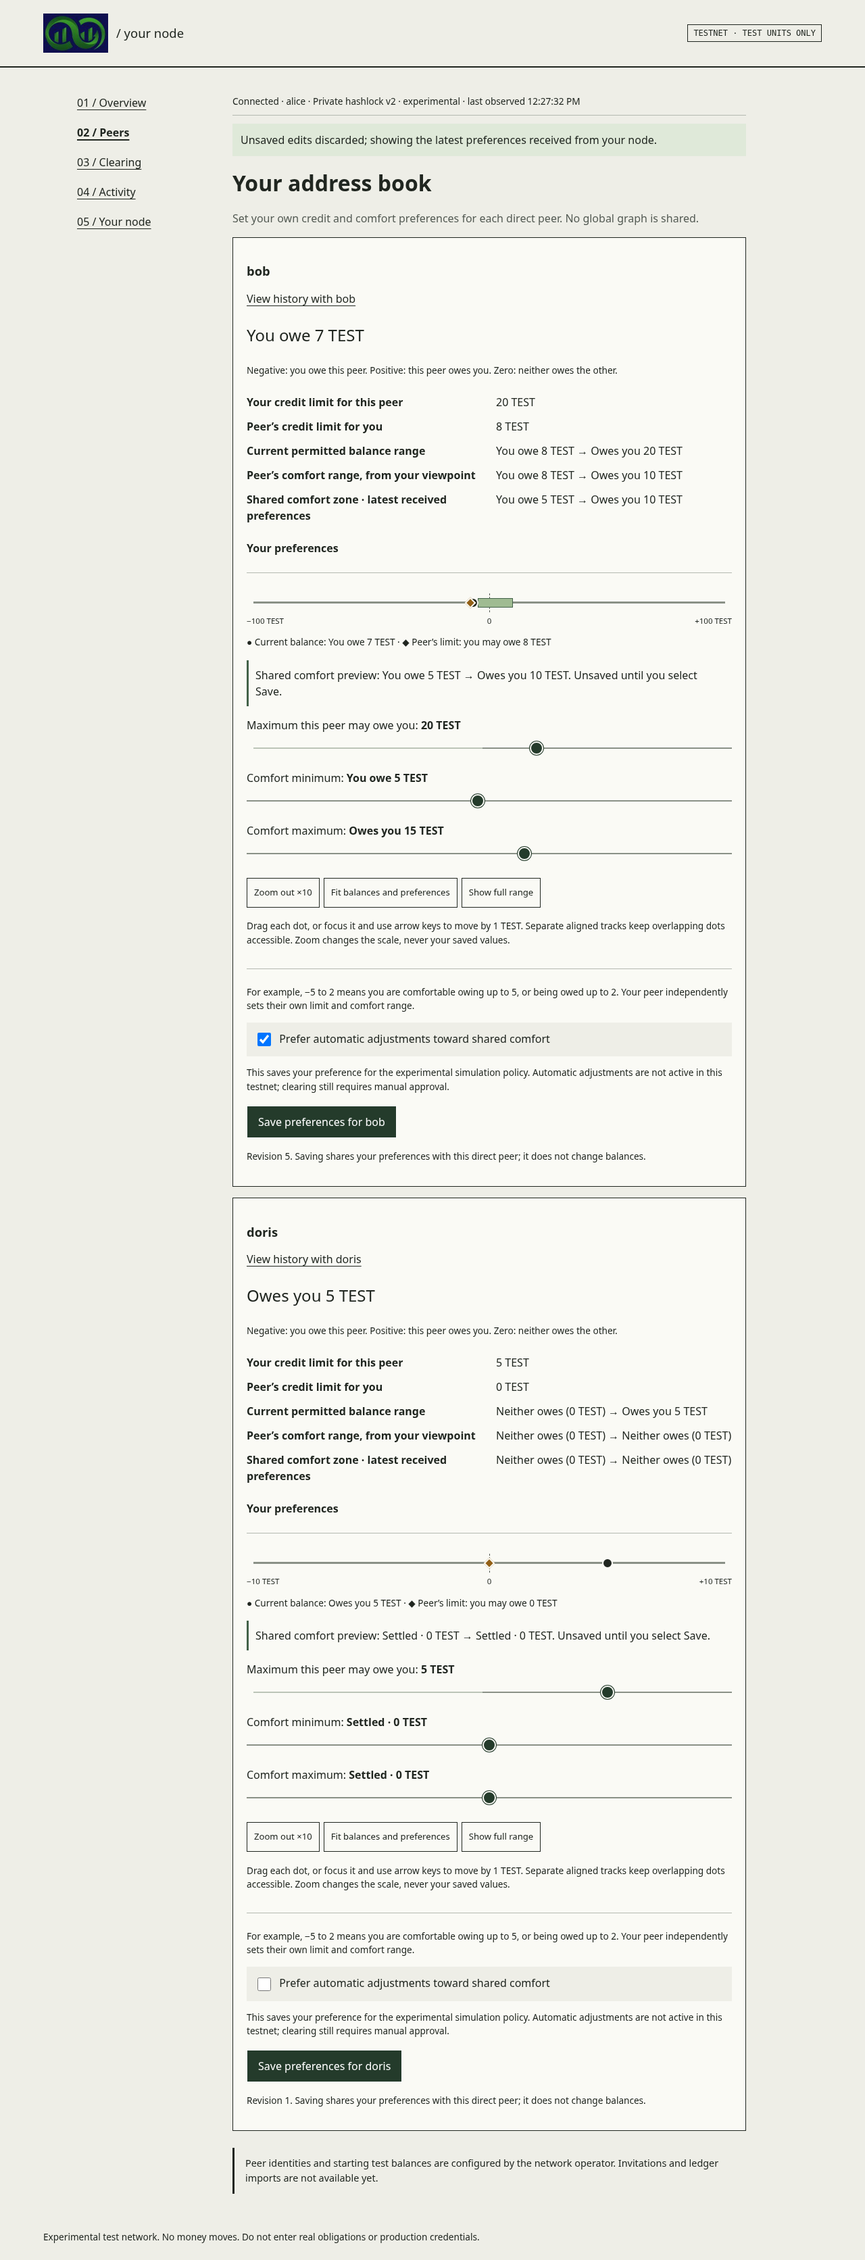
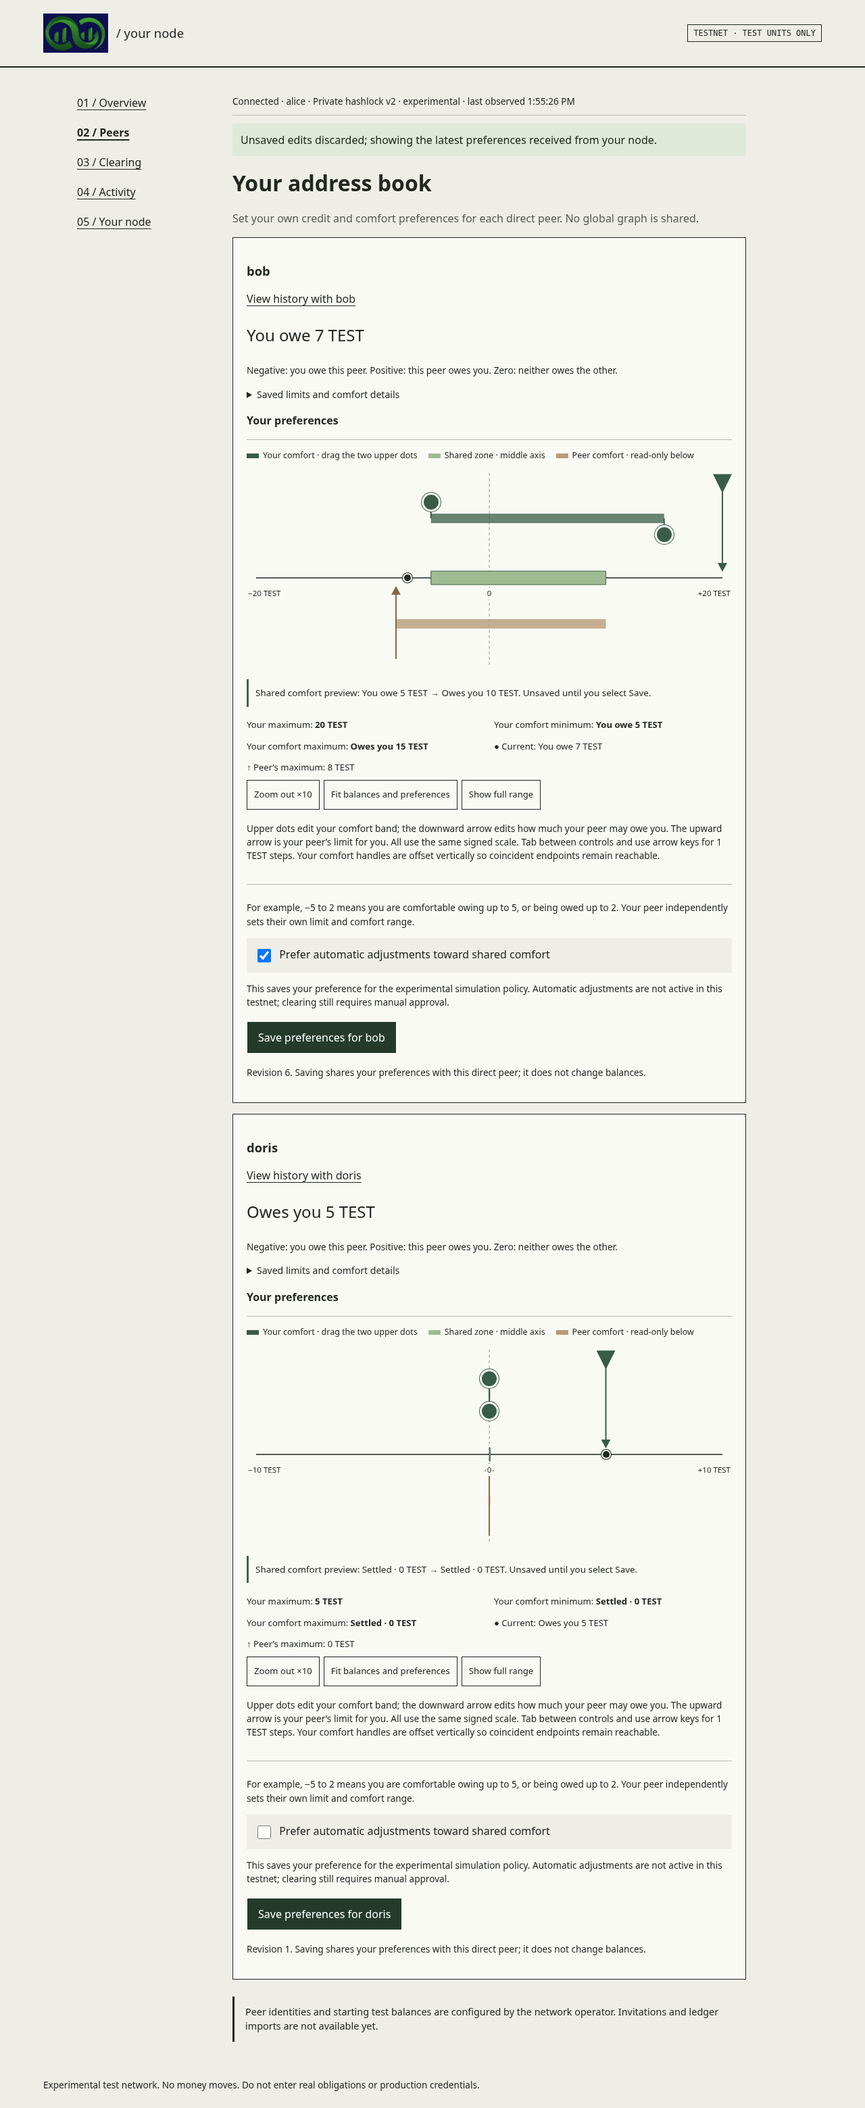
Combine trustline limits and comfort zones in one editable diagram

diff --git a/app/static/app.js b/app/static/app.js
@@ -127,22 +127,25 @@
   const contactScales = new Map();
   const preferenceBound = 1000000000000;
   function contactRadius(contact, values) {
-    const largest = Math.max(10, Math.abs(contact.balance), ...[values.credit_limit,values.comfort_min,values.comfort_max,contact.peer_preferences?.credit_limit || 0].map(Number).map(Math.abs));
-    return Math.min(preferenceBound, Math.max(largest, contactScales.get(contact.peer) || Math.pow(10,Math.ceil(Math.log10(largest)))));
+    const largest = Math.max(10, Math.abs(contact.balance), ...[values.credit_limit,values.comfort_min,values.comfort_max,contact.peer_preferences?.credit_limit || 0,contact.peer_preferences?.comfort_min || 0,contact.peer_preferences?.comfort_max || 0].map(Number).map(Math.abs));
+    const magnitude = Math.pow(10,Math.floor(Math.log10(largest)));
+    const fitted = [1,2,5,10].map(factor => factor*magnitude).find(value => value >= largest);
+    return Math.min(preferenceBound, Math.max(largest, contactScales.get(contact.peer) || fitted));
   }
   function comfortPreview(contact, values, radius) {
     const peer = contact.peer_preferences;
     const lower = peer ? Math.max(Number(values.comfort_min),-peer.comfort_max,-peer.credit_limit) : 0;
     const upper = peer ? Math.min(Number(values.comfort_max),-peer.comfort_min,Number(values.credit_limit)) : 0;
-    const point = value => 50 + Number(value) / radius * 50;
+    const x = value => 500 + Number(value) / radius * 500;
     const overlap = peer && lower <= upper;
-    return `<div class="balance-axis" aria-hidden="true"><span class="axis-zero"></span>${overlap ? `<span class="axis-band" style="left:${point(lower)}%;width:${Math.max(0,(upper-lower)/radius*50)}%"></span>` : ""}<span class="axis-marker current" style="left:${point(contact.balance)}%" title="Current balance"></span>${peer ? `<span class="axis-marker peer-limit" style="left:${point(-peer.credit_limit)}%" title="Peer’s credit limit"></span>` : ""}</div><div class="axis-labels"><span>−${esc(amount(radius))}</span><span>0</span><span>+${esc(amount(radius))}</span></div><p class="subtle">● Current balance: ${esc(balanceText(contact.balance))}${peer ? ` · ◆ Peer’s limit: you may owe ${esc(amount(peer.credit_limit))}` : " · Peer’s limit not received"}</p><p class="comfort-preview">Shared comfort preview: ${!peer ? "waiting for peer preferences" : !overlap ? "No shared comfort zone" : `${esc(balanceText(lower))} → ${esc(balanceText(upper))}`}. Unsaved until you select Save.</p>`;
+    const ownMin = x(values.comfort_min), ownMax = x(values.comfort_max), limit = x(values.credit_limit);
+    return `<div class="diagram-drawing" aria-hidden="true"><svg viewBox="0 0 1000 300" preserveAspectRatio="none"><line class="zero-guide" x1="500" y1="5" x2="500" y2="292"/><line class="balance-line" x1="0" y1="160" x2="1000" y2="160"/><rect class="own-comfort-band" x="${ownMin}" y="65" width="${Math.max(2,ownMax-ownMin)}" height="14"/><line class="own-connector" x1="${ownMin}" y1="48" x2="${ownMin}" y2="72"/><line class="own-connector" x1="${ownMax}" y1="72" x2="${ownMax}" y2="96"/><line class="own-limit-line" x1="${limit}" y1="20" x2="${limit}" y2="148"/><path class="own-limit-arrow" d="M ${limit-10} 138 L ${limit} 151 L ${limit+10} 138 Z"/>${overlap ? `<rect class="shared-comfort-band" x="${x(lower)}" y="150" width="${Math.max(2,x(upper)-x(lower))}" height="20"/>` : ""}${peer ? `<rect class="peer-comfort-band" x="${x(-peer.comfort_max)}" y="221" width="${Math.max(2,x(-peer.comfort_min)-x(-peer.comfort_max))}" height="14"/><line class="peer-limit-line" x1="${x(-peer.credit_limit)}" y1="280" x2="${x(-peer.credit_limit)}" y2="176"/><path class="peer-limit-arrow" d="M ${x(-peer.credit_limit)-10} 185 L ${x(-peer.credit_limit)} 172 L ${x(-peer.credit_limit)+10} 185 Z"/>` : ""}</svg><span class="diagram-current" style="left:${x(contact.balance)/10}%" title="Current balance"></span></div><div class="axis-labels"><span>−${esc(amount(radius))}</span><span>0</span><span>+${esc(amount(radius))}</span></div><p class="comfort-preview">Shared comfort preview: ${!peer ? "waiting for peer preferences" : !overlap ? "No shared comfort zone" : `${esc(balanceText(lower))} → ${esc(balanceText(upper))}`}. Unsaved until you select Save.</p>`;
   }
   function contactSliders(contact, values, index, locked) {
     const radius = contactRadius(contact,values);
     const control = locked ? "disabled" : "";
-    const labels = {credit_limit:"Maximum this peer may owe you",comfort_min:"Comfort minimum",comfort_max:"Comfort maximum"};
-    return `<div class="preference-axis" data-radius="${radius}"><div data-comfort-preview>${comfortPreview(contact,values,radius)}</div>${Object.entries(labels).map(([key,label]) => `<label for="contact-${index}-${key}">${label}: <output data-value="${key}">${esc(key === "credit_limit" ? amount(values[key]) : balanceText(values[key]))}</output></label><div class="slider-track ${key === "credit_limit" ? "credit-track" : ""}"><input id="contact-${index}-${key}" name="${key}" type="range" min="${key === "credit_limit" ? 0 : -radius}" max="${radius}" step="1" value="${esc(values[key])}" aria-valuetext="${esc(key === "credit_limit" ? amount(values[key]) : balanceText(values[key]))}" ${control}></div>`).join("")}<div class="axis-actions"><button type="button" class="secondary" data-scale="wider" ${radius >= preferenceBound ? "disabled" : ""}>Zoom out ×10</button><button type="button" class="secondary" data-scale="fit">Fit balances and preferences</button><button type="button" class="secondary" data-scale="full">Show full range</button></div><p class="subtle">Drag each dot, or focus it and use arrow keys to move by 1 TEST. Separate aligned tracks keep overlapping dots accessible. Zoom changes the scale, never your saved values.</p></div>`;
+    const labels = {credit_limit:"Your maximum",comfort_min:"Your comfort minimum",comfort_max:"Your comfort maximum"};
+    return `<div class="preference-axis integrated" data-radius="${radius}"><div class="diagram-key"><span class="own-key">Your comfort · drag the two upper dots</span><span class="shared-key">Shared zone · middle axis</span><span class="peer-key">Peer comfort · read-only below</span></div><div class="integrated-diagram"><div data-comfort-preview>${comfortPreview(contact,values,radius)}</div>${Object.entries(labels).map(([key,label]) => `<input class="diagram-control ${key}" id="contact-${index}-${key}" name="${key}" type="range" min="${key === "credit_limit" ? 0 : -radius}" max="${radius}" step="1" value="${esc(values[key])}" aria-label="${label}" aria-valuetext="${esc(key === "credit_limit" ? amount(values[key]) : balanceText(values[key]))}" ${control}>`).join("")}</div><div class="diagram-values">${Object.entries(labels).map(([key,label]) => `<label for="contact-${index}-${key}">${label}: <output data-value="${key}">${esc(key === "credit_limit" ? amount(values[key]) : balanceText(values[key]))}</output></label>`).join("")}<p>● Current: ${esc(balanceText(contact.balance))}</p><p>↑ Peer’s maximum: ${contact.peer_preferences ? esc(amount(contact.peer_preferences.credit_limit)) : "not received"}</p></div><div class="axis-actions"><button type="button" class="secondary" data-scale="wider" ${radius >= preferenceBound ? "disabled" : ""}>Zoom out ×10</button><button type="button" class="secondary" data-scale="fit">Fit balances and preferences</button><button type="button" class="secondary" data-scale="full">Show full range</button></div><p class="subtle">Upper dots edit your comfort band; the downward arrow edits how much your peer may owe you. The upward arrow is your peer’s limit for you. All use the same signed scale. Tab between controls and use arrow keys for 1 TEST steps. Your comfort handles are offset vertically so coincident endpoints remain reachable.</p></div>`;
   }
   function contactHistory(peer) {
     const contact = state.contacts?.find(c => c.peer === peer) || state.balances.find(c => c.peer === peer);
@@ -169,7 +172,7 @@
     const control = locked ? "disabled" : "";
     const endpoint = value => value === 0 ? "Neither owes (0 TEST)" : balanceText(value);
     const signedRange = (min, max) => `${endpoint(min)} → ${endpoint(max)}`;
-    return `<article class="card contact"><h2>${esc(contact.peer)}</h2><a href="#history/${encodeURIComponent(contact.peer)}">View history with ${esc(contact.peer)}</a><p class="big">${esc(balanceText(contact.balance))}</p>${contact.reserved_by ? "<p class=\"tag\">Pending clearing · preferences locked until outcome</p>" : ""}<p class="subtle">Negative: you owe this peer. Positive: this peer owes you. Zero: neither owes the other.</p><dl class="contact-summary"><dt>Your credit limit for this peer</dt><dd>${esc(amount(own.credit_limit))}</dd><dt>Peer’s credit limit for you</dt><dd>${peer ? esc(amount(peer.credit_limit)) : "Not received yet"}</dd><dt>Current permitted balance range</dt><dd>${contact.hard_min === null ? "Waiting for peer preferences" : esc(signedRange(contact.hard_min, contact.hard_max))}</dd><dt>Peer’s comfort range, from your viewpoint</dt><dd>${peer ? esc(signedRange(-peer.comfort_max, -peer.comfort_min)) : "Not received yet"}</dd><dt>Shared comfort zone · latest received preferences</dt><dd>${!shared ? "Waiting for peer preferences" : shared.empty ? "No shared comfort zone — your ranges do not overlap within the limits." : esc(signedRange(shared.min, shared.max))}</dd></dl>${outside ? "<aside>The current balance is outside the newly configured credit limits. Existing debt remains; saving a lower limit does not erase it.</aside>" : ""}<form data-contact="${esc(contact.peer)}" data-revision="${esc(draft?.expected_revision ?? own.revision)}"><h3>Your preferences</h3>${contactSliders(contact,values,index,locked)}<p class="subtle">For example, −5 to 2 means you are comfortable owing up to 5, or being owed up to 2. Your peer independently sets their own limit and comfort range.</p><label class="consent"><input name="auto_adjust" type="checkbox" ${values.auto_adjust ? "checked" : ""} ${control}> Prefer automatic adjustments toward shared comfort</label><p class="subtle">This saves your preference for the experimental simulation policy. Automatic adjustments are not active in this testnet; clearing still requires manual approval.</p>${stale ? "<p role=\"alert\">Preferences changed since you began editing. Reload this contact before saving.</p>" : ""}<button type="submit" ${control}>Save preferences for ${esc(contact.peer)}</button>${draft ? `<button type="button" class="secondary" data-reset-contact="${esc(contact.peer)}">Discard unsaved edits</button>` : ""}<p class="subtle">Revision ${esc(own.revision)}. Saving shares your preferences with this direct peer; it does not change balances.</p></form></article>`;
+    return `<article class="card contact"><h2>${esc(contact.peer)}</h2><a href="#history/${encodeURIComponent(contact.peer)}">View history with ${esc(contact.peer)}</a><p class="big">${esc(balanceText(contact.balance))}</p>${contact.reserved_by ? "<p class=\"tag\">Pending clearing · preferences locked until outcome</p>" : ""}<p class="subtle">Negative: you owe this peer. Positive: this peer owes you. Zero: neither owes the other.</p><details class="contact-detail-summary"><summary>Saved limits and comfort details</summary><dl class="contact-summary"><dt>Your credit limit for this peer</dt><dd>${esc(amount(own.credit_limit))}</dd><dt>Peer’s credit limit for you</dt><dd>${peer ? esc(amount(peer.credit_limit)) : "Not received yet"}</dd><dt>Current permitted balance range</dt><dd>${contact.hard_min === null ? "Waiting for peer preferences" : esc(signedRange(contact.hard_min, contact.hard_max))}</dd><dt>Peer’s comfort range, from your viewpoint</dt><dd>${peer ? esc(signedRange(-peer.comfort_max, -peer.comfort_min)) : "Not received yet"}</dd><dt>Shared comfort zone · latest received preferences</dt><dd>${!shared ? "Waiting for peer preferences" : shared.empty ? "No shared comfort zone — your ranges do not overlap within the limits." : esc(signedRange(shared.min, shared.max))}</dd></dl></details>${outside ? "<aside>The current balance is outside the newly configured credit limits. Existing debt remains; saving a lower limit does not erase it.</aside>" : ""}<form data-contact="${esc(contact.peer)}" data-revision="${esc(draft?.expected_revision ?? own.revision)}"><h3>Your preferences</h3>${contactSliders(contact,values,index,locked)}<p class="subtle">For example, −5 to 2 means you are comfortable owing up to 5, or being owed up to 2. Your peer independently sets their own limit and comfort range.</p><label class="consent"><input name="auto_adjust" type="checkbox" ${values.auto_adjust ? "checked" : ""} ${control}> Prefer automatic adjustments toward shared comfort</label><p class="subtle">This saves your preference for the experimental simulation policy. Automatic adjustments are not active in this testnet; clearing still requires manual approval.</p>${stale ? "<p role=\"alert\">Preferences changed since you began editing. Reload this contact before saving.</p>" : ""}<button type="submit" ${control}>Save preferences for ${esc(contact.peer)}</button>${draft ? `<button type="button" class="secondary" data-reset-contact="${esc(contact.peer)}">Discard unsaved edits</button>` : ""}<p class="subtle">Revision ${esc(own.revision)}. Saving shares your preferences with this direct peer; it does not change balances.</p></form></article>`;
   }
 
   function render() {

diff --git a/app/static/style.css b/app/static/style.css
@@ -4,3 +4,6 @@
 .contact-summary{display:grid;grid-template-columns:minmax(140px,1fr) minmax(0,1fr);gap:12px 20px;margin:24px 0}.contact-summary dt{font-weight:650}.contact-summary dd{margin:0;overflow-wrap:anywhere}.contact-fields{display:grid;grid-template-columns:1fr 1fr;gap:16px}.contact .big{font-size:1.5rem}.contact input[type=number]{font-variant-numeric:tabular-nums}@media(max-width:500px){.contact-summary{grid-template-columns:1fr;gap:4px}.contact-summary dd{margin-bottom:12px}.contact-fields{grid-template-columns:1fr;gap:0}}
 .preference-axis{margin:24px 0;padding:18px 0;border-top:1px solid #b4b9b1;border-bottom:1px solid #b4b9b1}.balance-axis{height:28px;position:relative;margin:12px 12px 0;background:linear-gradient(transparent 12px,#8a9187 12px,#8a9187 15px,transparent 15px)}.axis-zero{position:absolute;left:50%;height:28px;border-left:1px dashed #545b54}.axis-band{position:absolute;top:7px;min-width:2px;height:14px;background:#9fbb92;border:1px solid #436249}.axis-marker{position:absolute;top:6px;width:16px;height:16px;transform:translateX(-50%);background:#202620;border:2px solid #fafaf5;border-radius:50%;z-index:2}.axis-marker.peer-limit{top:8px;width:12px;height:12px;background:#936017;border-radius:0;transform:translateX(-50%) rotate(45deg)}.axis-labels{display:flex;justify-content:space-between;font-size:.72rem;gap:6px;margin-top:4px;font-variant-numeric:tabular-nums}.slider-track{position:relative;height:44px;margin:0 0 10px}.slider-track:before{content:"";position:absolute;left:12px;right:12px;top:21px;border-top:2px solid #bcc5b8}.slider-track input[type=range]{position:relative;padding:0;margin:0;width:100%;min-height:44px;background:transparent;border:0;accent-color:#243b2b;cursor:pointer}.credit-track input[type=range]{width:50%;margin-left:50%}.preference-axis label{margin:8px 0 0}.preference-axis output{font-weight:650}.axis-actions{display:flex;flex-wrap:wrap}.axis-actions button{font-size:.82rem;padding:8px 10px}.comfort-preview{padding:10px;border-left:3px solid #436249}.preference-axis input:disabled{cursor:not-allowed;opacity:.5}
 .balance-axis{margin-left:10px;margin-right:10px}.slider-track:before{left:10px;right:10px}.slider-track input[type=range]{appearance:none;-webkit-appearance:none}.slider-track input[type=range]::-webkit-slider-runnable-track{height:2px;background:#8a9187}.slider-track input[type=range]::-webkit-slider-thumb{appearance:none;-webkit-appearance:none;width:20px;height:20px;margin-top:-9px;background:#243b2b;border:2px solid #fafaf5;border-radius:50%;box-shadow:0 0 0 1px #243b2b}.slider-track input[type=range]::-moz-range-track{height:2px;background:#8a9187}.slider-track input[type=range]::-moz-range-thumb{width:16px;height:16px;background:#243b2b;border:2px solid #fafaf5;border-radius:50%;box-shadow:0 0 0 1px #243b2b}.credit-track input[type=range]{width:calc(50% + 10px);margin-left:calc(50% - 10px)}
+/* One signed balance diagram; every control and band shares its horizontal scale. */
+.integrated{padding-top:14px;margin-top:14px}.diagram-key{display:flex;flex-wrap:wrap;gap:8px 16px;font-size:.78rem}.diagram-key span:before{content:"";display:inline-block;width:18px;height:7px;margin-right:6px;vertical-align:middle}.own-key:before{background:#385c47}.shared-key:before{background:#9fbb92}.peer-key:before{background:#b99b79}.integrated-diagram{position:relative;margin-top:12px}.diagram-drawing{height:300px;position:relative;margin:0 14px}.diagram-drawing svg{width:100%;height:300px;overflow:visible;pointer-events:none}.zero-guide{stroke:#92988d;stroke-width:1;stroke-dasharray:4 4;vector-effect:non-scaling-stroke}.balance-line{stroke:#545b54;stroke-width:2;vector-effect:non-scaling-stroke}.own-comfort-band{fill:#385c47;opacity:.75}.own-connector,.own-limit-line{stroke:#385c47;stroke-width:2;vector-effect:non-scaling-stroke}.own-limit-arrow{fill:#385c47}.shared-comfort-band{fill:#9fbb92;stroke:#436249;stroke-width:1;vector-effect:non-scaling-stroke}.peer-comfort-band{fill:#b99b79;opacity:.8}.peer-limit-line{stroke:#8c673e;stroke-width:2;vector-effect:non-scaling-stroke}.peer-limit-arrow{fill:#8c673e}.diagram-current{position:absolute;top:153px;transform:translateX(-50%);width:14px;height:14px;background:#202620;border:2px solid #fafaf5;border-radius:50%;box-shadow:0 0 0 1px #202620;pointer-events:none}.integrated-diagram input.diagram-control{appearance:none;-webkit-appearance:none;position:absolute;left:0;width:100%;height:44px;min-height:44px;padding:0;margin:0;background:transparent;border:0;pointer-events:none;touch-action:pan-y;z-index:2}.integrated-diagram input.comfort_min{top:26px}.integrated-diagram input.comfort_max{top:74px}.integrated-diagram input.credit_limit{top:-2px;left:calc(50% - 14px);width:calc(50% + 14px)}.diagram-control::-webkit-slider-runnable-track{height:2px;background:transparent}.diagram-control::-webkit-slider-thumb{appearance:none;-webkit-appearance:none;pointer-events:auto;width:28px;height:28px;margin-top:-13px;background:#385c47;border:3px solid #fafaf5;border-radius:50%;box-shadow:0 0 0 1px #385c47;cursor:ew-resize}.diagram-control::-moz-range-track{height:2px;background:transparent}.diagram-control::-moz-range-thumb{pointer-events:auto;width:22px;height:22px;background:#385c47;border:3px solid #fafaf5;border-radius:50%;box-shadow:0 0 0 1px #385c47;cursor:ew-resize}.diagram-control.credit_limit::-webkit-slider-thumb{border-radius:0;clip-path:polygon(0 0,100% 0,50% 100%);border:0;box-shadow:none}.diagram-control.credit_limit::-moz-range-thumb{border-radius:0;clip-path:polygon(0 0,100% 0,50% 100%);border:0;box-shadow:none;width:28px;height:28px}.diagram-control:focus-visible{outline:0}.diagram-control:focus-visible::-webkit-slider-thumb{background:#97591c;box-shadow:0 0 0 3px #97591c}.diagram-control:focus-visible::-moz-range-thumb{background:#97591c;box-shadow:0 0 0 3px #97591c}.diagram-control:disabled::-webkit-slider-thumb{cursor:not-allowed;pointer-events:none}.diagram-control:disabled::-moz-range-thumb{cursor:not-allowed;pointer-events:none}.diagram-values{display:grid;grid-template-columns:1fr 1fr;gap:4px 14px;font-size:.82rem}.diagram-values p,.diagram-values label{margin:4px 0}.integrated .comfort-preview{font-size:.84rem;margin-top:10px}.contact-detail-summary{font-size:.88rem}@media(max-width:500px){.diagram-key{display:grid;gap:3px}.diagram-values{grid-template-columns:1fr}.diagram-drawing,.diagram-drawing svg{height:300px}}
+.integrated-diagram .axis-labels{position:absolute;top:174px;left:0;right:0;margin:0;pointer-events:none}.integrated-diagram .axis-labels span{background:#fafaf5;padding:0 2px}

diff --git a/app/COMFORT.md b/app/COMFORT.md
@@ -6,7 +6,7 @@ Positive means **the peer owes you**. Negative means **you owe the peer**. For e
 
 ## Dots and contact history
 
-Drag the credit-limit and comfort-bound dots along their aligned balance lines. Separate tracks keep coincident dots reachable. Arrow keys adjust by one TEST; the labels and shared-zone preview update immediately. Zoom controls change only the scale, including the full supported range. Select **Save preferences** to persist an edit, or discard it.
+One signed balance diagram combines your editable comfort zone above the axis, the shared zone on the axis, and your peer’s mirrored comfort zone below it. Your credit limit points down from above; your peer’s limit points up from below. The current balance is a dot on the axis. Drag your comfort endpoints or credit-limit arrow; arrow keys adjust by one TEST. Labels and the shared-zone preview update immediately. Your peer’s settings are read-only. Zoom controls change only the scale, including the full supported range. Select **Save preferences** to persist an edit, or discard it.
 
 Select **View history** on a contact to see that relationship's clearing proposals and local receipts, with dates and before/after balances. This filters the latest 100 proposals and latest 100 receipts returned by your node; it is not a complete historical archive or a preference-change journal. Downloaded receipts contain both of your local edges for the operation, as disclosed on the screen.
 
@@ -36,4 +36,6 @@ python3 app/run_private_demo.py --data-dir /tmp/ledgerloops-comfort-demo --base-
 APP_DEMO_DIR=/tmp/ledgerloops-comfort-demo APP_BASE_PORT=8961 node app/test_comfort_browser.cjs
 ```
 
-The browser test changes fabricated contact settings; use a fresh demo directory for reproduction. [Phone](screenshots/comfort/mobile.png) · [Desktop](screenshots/comfort/desktop.png) · [Contact history](screenshots/comfort/history-mobile.png).
+The integrated-diagram checks also cover independent keyboard access to coincident comfort endpoints and preserving ±1 trillion TEST preferences through reload.
+
+The browser test changes fabricated contact settings; use a fresh demo directory for reproduction. [Contact diagram](screenshots/comfort/contact-diagram.png) · [Phone](screenshots/comfort/mobile.png) · [Desktop](screenshots/comfort/desktop.png) · [Contact history](screenshots/comfort/history-mobile.png).
